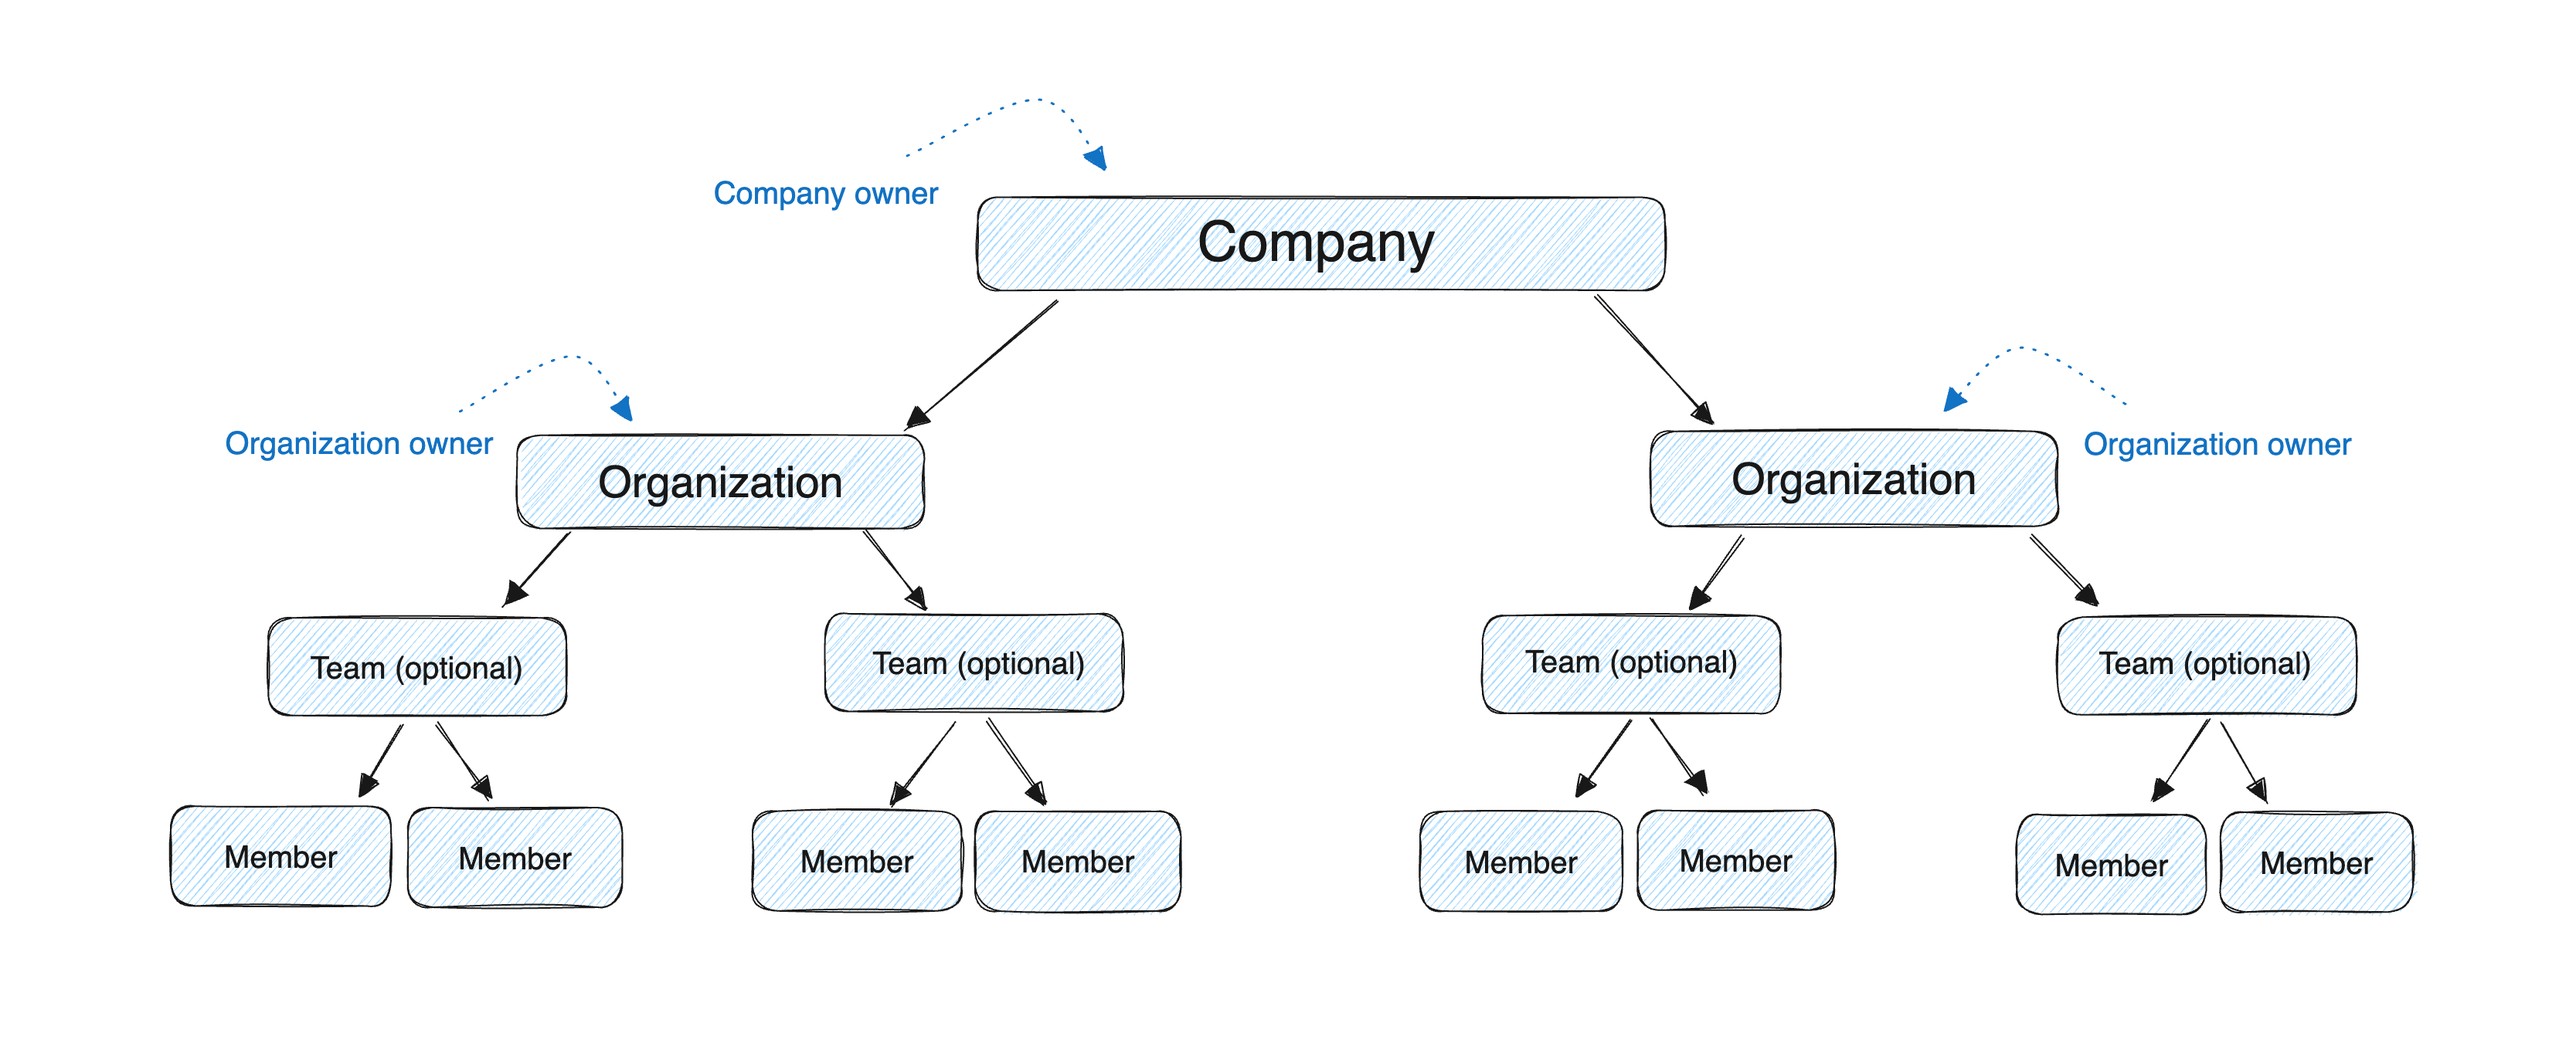
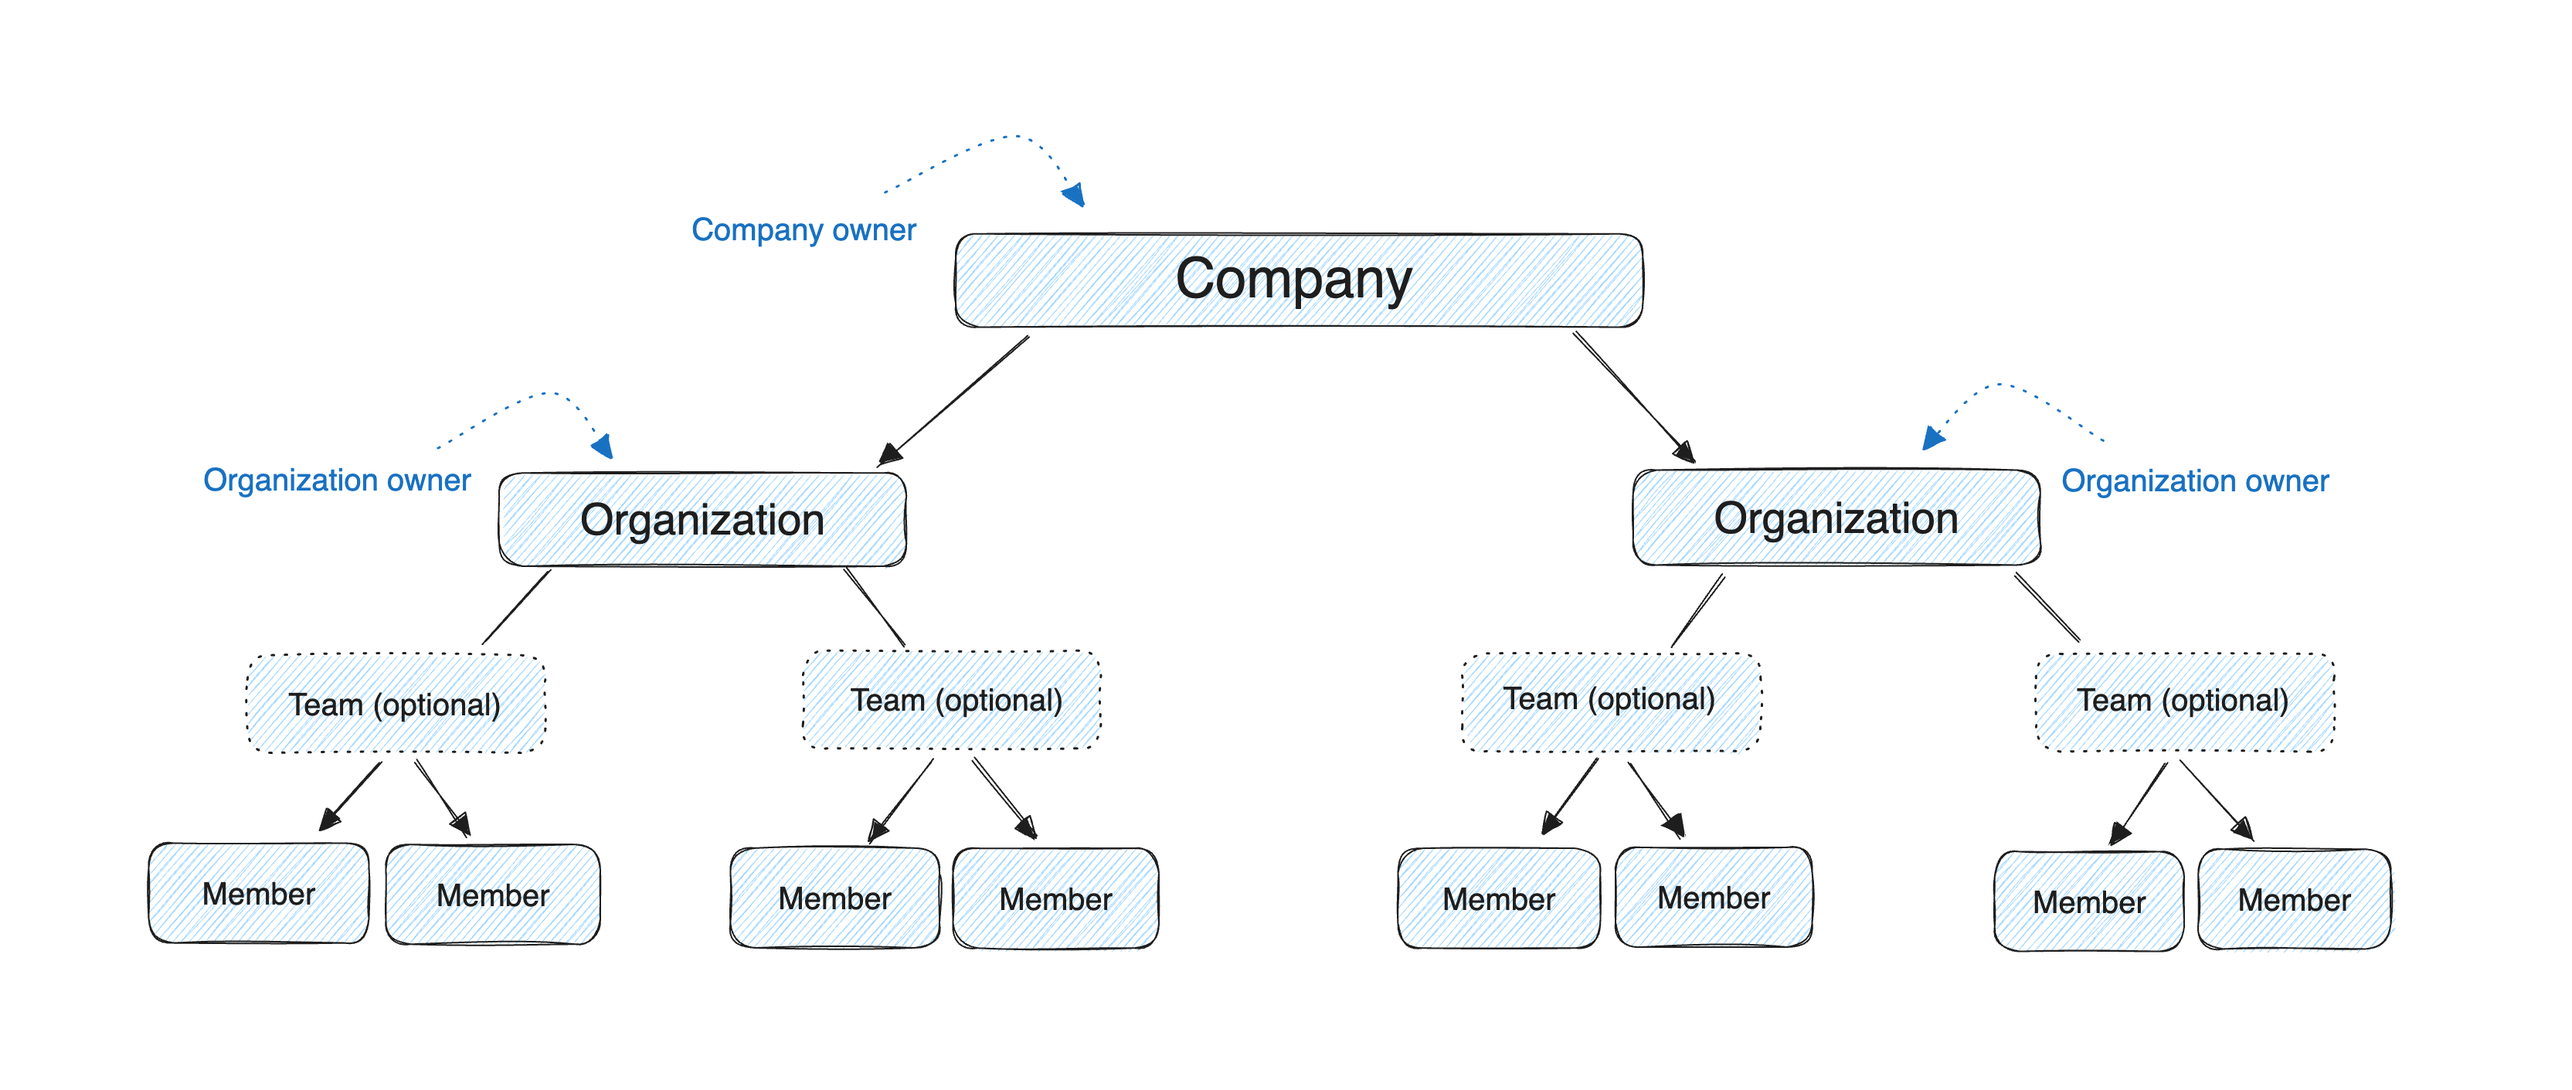
implement feedback and fix conditional

diff --git a/layouts/shortcodes/admin-users.html b/layouts/shortcodes/admin-users.html
@@ -18,7 +18,7 @@
 {{ if eq (.Get "product") "admin" }}
 {{ $invite_button = "**Invite**" }}
 {{ $export_button = "the **Action** icon and then select **Export users as CSV**" }}
-{{ $member_navigation := "Select your organization in the left navigation drop-down menu, and then select *Members**." }}
+{{ $member_navigation = "Select your organization in the left navigation drop-down menu, and then select **Members**." }}
 {{ $remove_button = "**Remove member**" }}
 {{ $product_link = "[Docker Admin](https://admin.docker.com)" }}
 {{ $role_mapping_link = "[SCIM for role mapping](/security/for-admins/scim/)" }}

diff --git a/content/admin/_index.md b/content/admin/_index.md
@@ -24,7 +24,7 @@ The [Docker Admin](https://admin.docker.com) console provides administrators wit
   - Company owner: A company can have multiple owners. Company owners have company-wide observability and can manage company-wide settings that apply to all associated organizations. In addition, company owners have the same access as organization owners for all associated organizations.
 - Organization: An organization is a collection of teams and repositories. Docker Team and Business subscribers must have at least one organization.
   - Organization owner: An organization can have multiple owners. Organization owners have observability into their organization and can manage its users and settings.
-- Team (optional): A team is a group of Docker members that belong to an organization. Organization and company owners can group members into additional teams to configure repository permissions on a per-team basis. Using teams to group members is optional.
+- Team: A team is a group of Docker members that belong to an organization. Organization and company owners can group members into additional teams to configure repository permissions on a per-team basis. Using teams to group members is optional.
 - Member: A member is a Docker user that's a member of an organization. Organization and company owners can assign roles to members to define their permissions.
 
 {{< grid >}}

diff --git a/content/docker-hub/company-faqs.md b/content/docker-hub/company-faqs.md
@@ -30,14 +30,14 @@ Company owners can navigate to the **Organizations** page to view all their nest
 
 ### What features are supported at the company level?
 
-You can manage domain verification, Single Sign-on, and System for Cross-domain Identity Management (SCIM) at the company level. You can manage the following features at the organization level:
+You can manage domain verification, Single Sign-on, and System for Cross-domain Identity Management (SCIM) at the company level. The following features aren't supported at the company level, but you can manage them at the organization level:
 
 - Image Access Management
 - Registry Access Management
 - User management
 - Billing
 
-You can manage users at the company level when you use Docker Admin. 
+To view and manage users across all the organizations under your company, you can [manage users at the company level](../admin/company/users.md) when you use Docker Admin.
 
 Domain audit is not supported for companies or organizations within a company.
 
